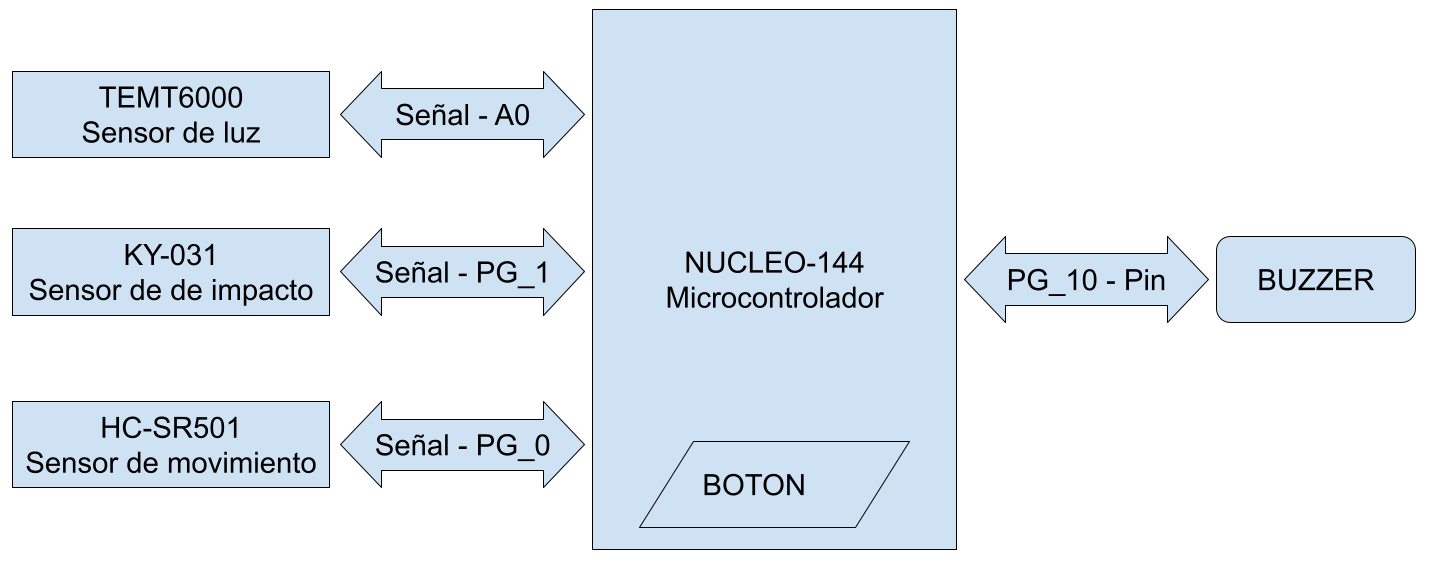
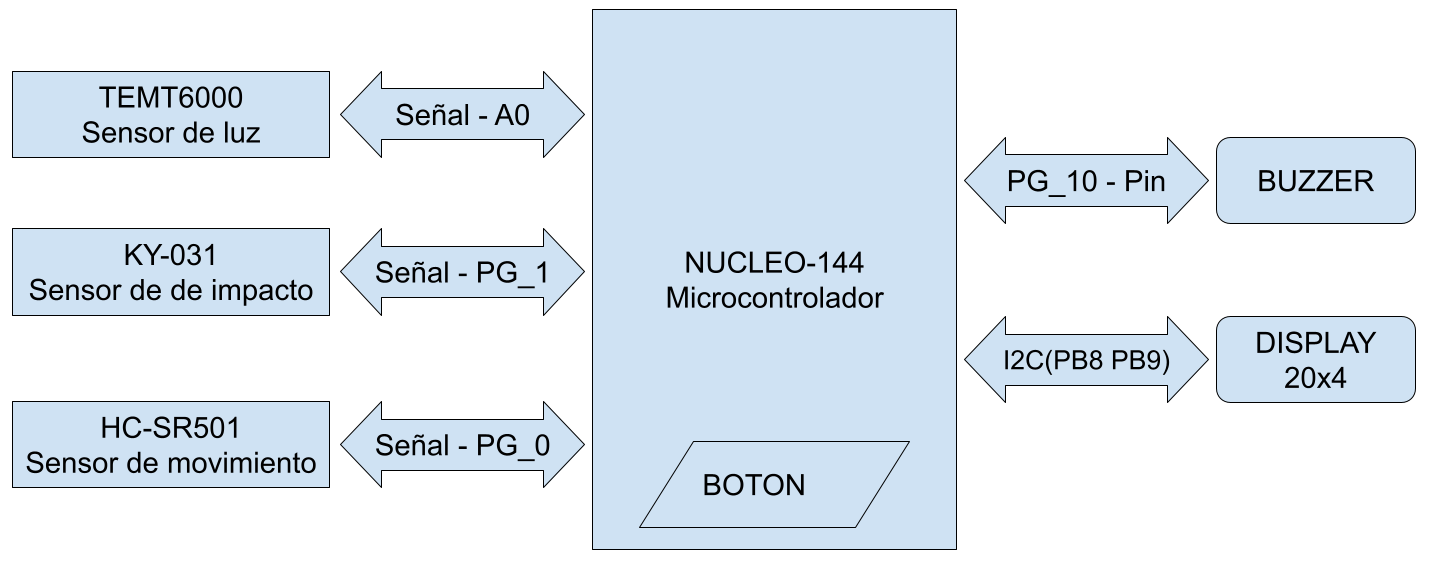
Documentacion del proyecto

Changed region(s): [[0.6727, 0.218, 1.0, 0.7163]]

diff --git a/README.md b/README.md
@@ -1,0 +1,46 @@
+# Trabajo integrador de ISE
+
+Este trabajo se realiza como proyecto integrador de la materia Introduccion a Sistemas Embebidos en el contexto de la Carrera de Especializacion en Internet de las Cosas (FIUBA).
+
+# Proyecto: Food Deposit
+
+## Introduccion
+
+Desarrolla un sistema de detección de plagas para un depósito de comida para animales. El proyecto supone un contenedor donde se mantiene el alimento, a modo de depósito, para ser posteriormente distribuido. El sistema en cuestión debe detectar ingresos para tener control sobre la actividad del contenedor. De esa forma, se podría llevar registro de cuando se quitó alimento del interior. Se evalúa tener sensores capaces de detectar movimientos bruscos dentro del contenedor, dando pauta de plagas podría intentar acceder al alimento rascando el contenedor. Adicionalmente se agrega un sensor de luminosidad para medir la luz a la que se encuentra al expuesto el contenedor.
+
+## Materiales utilizados
+
+ - Placa de desarollo [NUCLEO-144](https://ar.mouser.com/ProductDetail/STMicroelectronics/NUCLEO-F429ZI?qs=mKNKSX85ZJcE6FU0UkiXTA%3D%3D)
+ - Sensor de luz [TEMT6000](https://www.alldatasheet.com/datasheet-pdf/pdf/117488/VISHAY/TEMT6000.html)
+ - Sensor de impacto [KY-031](https://datasheetspdf.com/pdf-file/1402041/Joy-IT/KY-031/1)
+ - Detector de movimiento [HC-SR501](https://www.mpja.com/download/31227sc.pdf)
+ - Display [LCD 20x4](https://www.futurlec.com/LED/LCD20X4.shtml)
+ - Miscelaneos varios (cables, tuercas, tornillos, etc)
+
+ ## Implementación del sistema
+
+El programa fue desarrollado en el lenguaje de programación C/C++ utilizando el entorno de desarrollo [Mbed-OS](https://os.mbed.com/mbed-os/) aprovechando sus compilador online y sus librerías.
+
+ ### Conexión de componentes
+
+Para el desarrollo del proyecto, se conectado cada uno de los modulos al microcontrolador, utilizando los diferentes puertos que este proveé.
+
+ ![pin_map](resources/pin_map.png)
+
+La estructura del programa realiza la declaración de los pines de entrada y salida, así como la inicialización de puertos e interrupciones. En el programa principal, se asocian funciones a las interrupciones configuradas para después comenzar con un bucle que se ejecuta indefinidamente. Dentro de este bucle se chequea si el botón interno de la placa esta presionado; ya que el mismo sirve como botón de "mantenimiento" para que los usuarios puedan retirar comida de su interior sin activar la alarma. también se chequea que no haya detecciones de plagas (disparada por interrupción a través del sensor de choque). Se mide la luz y se muestra por pantalla este valor, al igual que el estado del sensor de movimiento dentro del contenedor. Cada 10 segundos se prende un led testigo para verificar que el correcto funcionamiento del sistema.
+
+
+### Diagrama de flujo
+
+ ![dataflow](resources/dataflow.png)
+
+### Montaje de componentes
+
+Con intenciones de hacer una prueba de concepto, se realizó el montaje de los componetes de tal forma que simular contenedor que disponga de todos los elementos antes mencionados
+
+ ![montaje](resources/montaje.jpg)
+
+ ## Importar proyecto
+
+  - Github: [link](https://github.com/ciror00/ise_tp)
+  - Mbed-OS: [link](https://os.mbed.com/users/ciror00/code/FoodDeposit/)
